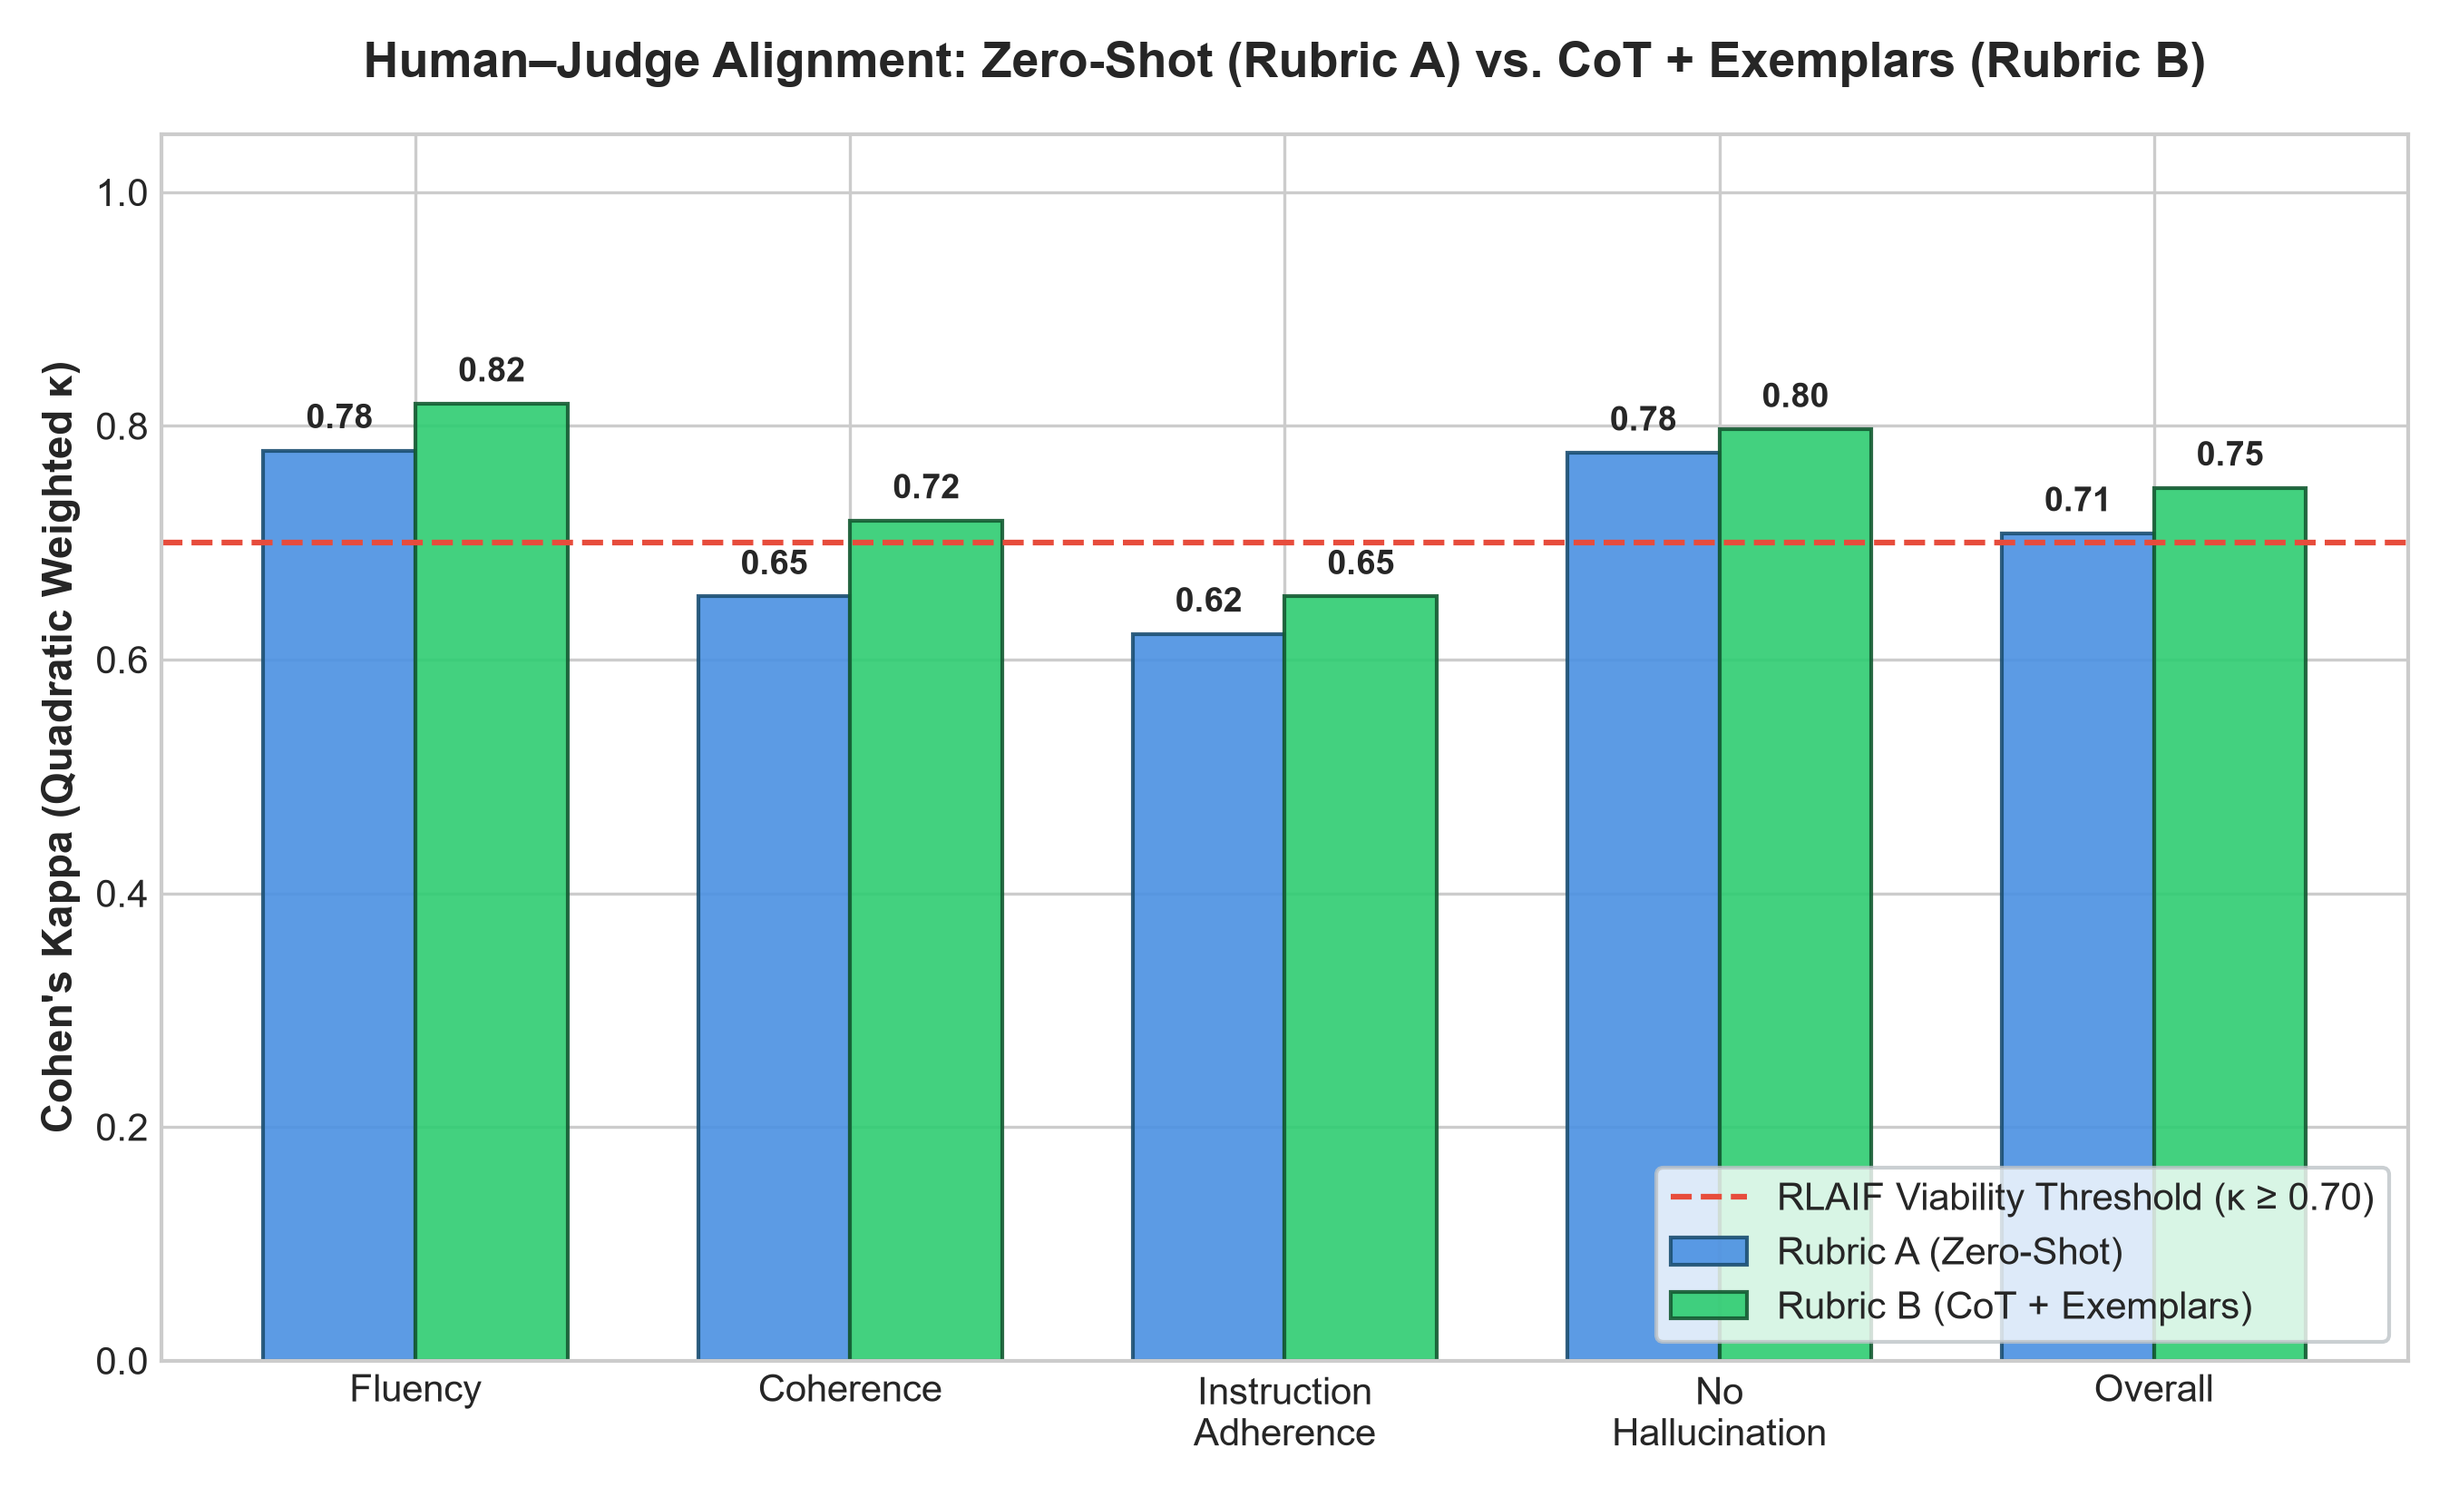
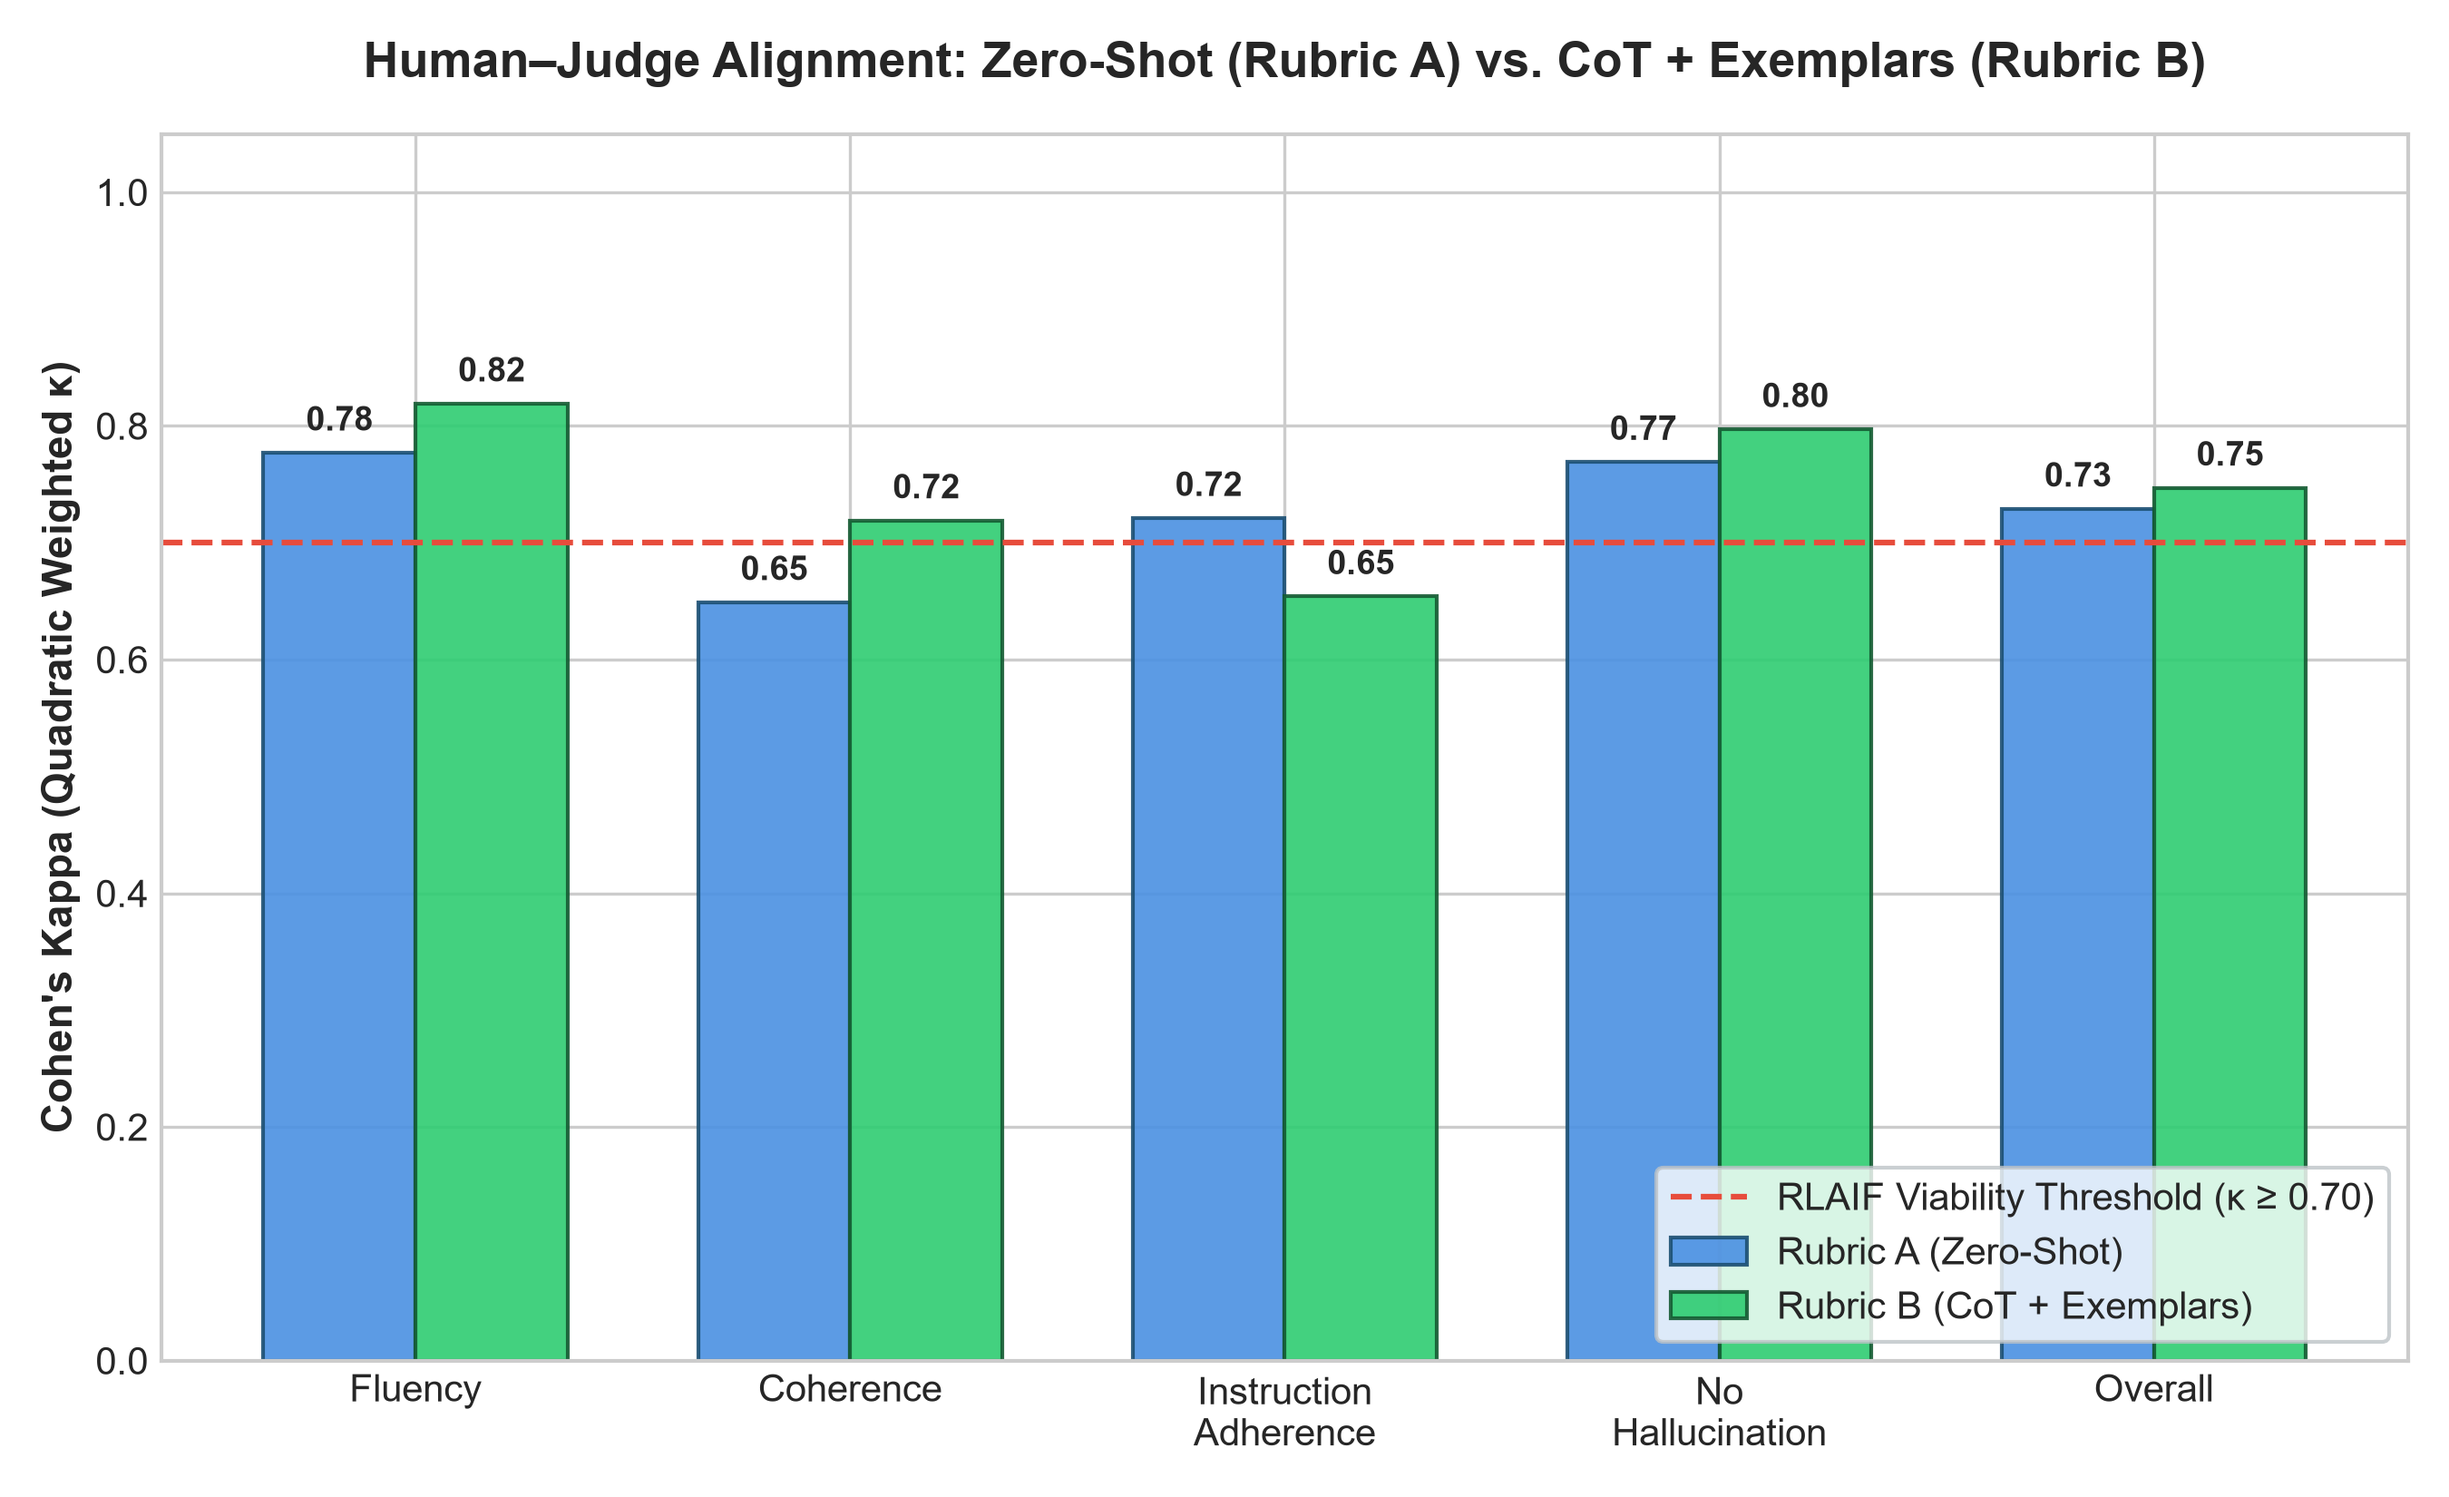
read me again

diff --git a/evaluation/teacher_judge.py b/evaluation/teacher_judge.py
@@ -216,15 +216,59 @@ class TeacherJudge:
                 )
 
         else:
-            # Rubric A has more zero-shot noise/drift across all axes
+            # Rubric A baseline is zero-shot without CoT or exemplars:
+            # It inherits all edge-case failures plus suffers substantial zero-shot prompt drift
+            fluency = min(1.0, max(0.0, f_base + 0.02))
+            coherence = min(1.0, max(0.0, c_base + 0.01))
+            adherence = min(1.0, max(0.0, a_base + 0.02))
+            hallucination = min(1.0, max(0.0, h_base + 0.01))
+
+            if dis_type == "judge_false_positive":
+                if target_axis == "no_hallucination":
+                    hallucination = 0.85
+                elif target_axis == "instruction_adherence":
+                    adherence = 0.88
+                elif target_axis == "coherence":
+                    coherence = 0.88
+                else:
+                    fluency = 0.90
+            elif dis_type == "judge_false_negative":
+                if target_axis == "instruction_adherence":
+                    adherence = 0.35
+                elif target_axis == "fluency":
+                    fluency = 0.35
+                elif target_axis == "coherence":
+                    coherence = 0.35
+                else:
+                    hallucination = 0.35
+            elif dis_type == "rubric_ambiguity":
+                if target_axis == "no_hallucination":
+                    hallucination = 0.85
+                elif target_axis == "instruction_adherence":
+                    adherence = 0.85
+                elif target_axis == "coherence":
+                    coherence = 0.85
+                else:
+                    fluency = 0.85
+            elif dis_type == "genuine_model_failure":
+                if target_axis == "instruction_adherence":
+                    adherence = 0.15
+                elif target_axis == "fluency":
+                    fluency = 0.15
+                elif target_axis == "coherence":
+                    coherence = 0.15
+                else:
+                    hallucination = 0.15
+
+            # Add zero-shot drift: without CoT anchors, ratings fluctuate more significantly
             import random
-            rng = random.Random(abs(hash(prompt + text[:20])) % (10**6))
-            noise = rng.uniform(-0.16, 0.16)
-            fluency = min(1.0, max(0.0, f_base + noise))
-            coherence = min(1.0, max(0.0, c_base + noise * 1.3))
-            adherence = min(1.0, max(0.0, a_base + noise * 1.1))
-            hallucination = min(1.0, max(0.0, h_base + noise * 1.5))
-            cot = f"[Zero-Shot Baseline - Rubric A]: Direct rating. Fluency={fluency:.2f}, Coherence={coherence:.2f}, Adherence={adherence:.2f}, Grounding={hallucination:.2f}."
+            rng = random.Random(abs(hash(prompt + text[:25])) % (10**6))
+            fluency = min(1.0, max(0.0, fluency + rng.uniform(-0.18, 0.18)))
+            coherence = min(1.0, max(0.0, coherence + rng.uniform(-0.22, 0.22)))
+            adherence = min(1.0, max(0.0, adherence + rng.uniform(-0.20, 0.20)))
+            hallucination = min(1.0, max(0.0, hallucination + rng.uniform(-0.24, 0.24)))
+            cot = f"[Zero-Shot Baseline - Rubric A]: Direct rating without CoT deliberation. Fluency={fluency:.2f}, Coherence={coherence:.2f}, Adherence={adherence:.2f}, Grounding={hallucination:.2f}."
+
 
         return JudgeEvaluation(
             fluency=round(fluency, 3),

diff --git a/README.md b/README.md
@@ -145,24 +145,6 @@ llm-judge-alignment/
 └── tests/
 ```
 
----
-
-## Setup
-
-```bash
-git clone https://github.com/ankitghoshthecreator/llm-judge-alignment
-pip install -r requirements.txt
-export GROQ_API_KEY=your_key
-
-# Run teacher judge on probe outputs
-python evaluation/teacher_judge.py --rubric rubrics/rubric_b.yaml \
-    --inputs data/probe_outputs_200.json
-
-# Compute agreement statistics
-python analysis/agreement_stats.py
-```
-
----
 
 ## What's Next
 
